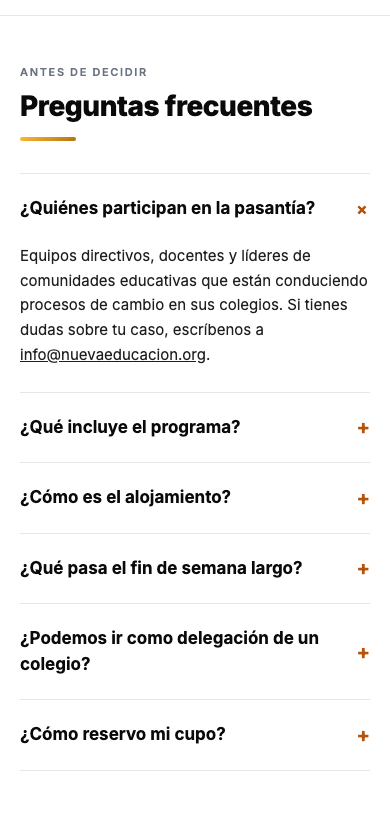
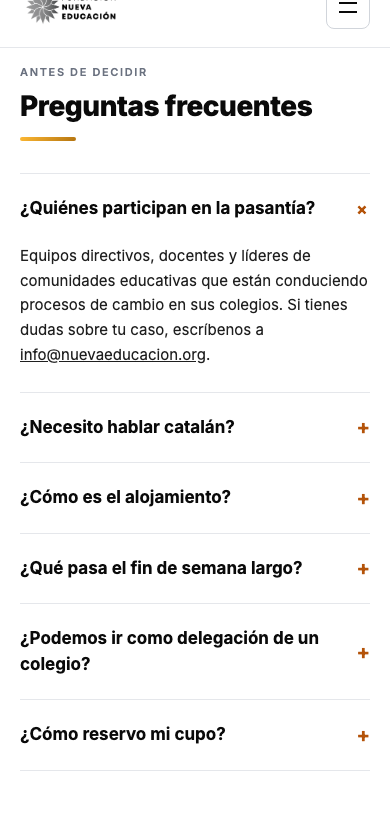
feat(a6r): FAQ — drop the duplicated question, answer the language one
r1 kept the owner-reviewed FAQ whole, which left "¿Qué incluye el programa?"
restating the #incluye section a screen above it. A FAQ that repeats the page
teaches readers the FAQ is not worth opening, so it comes off. COHORT_INCLUDES
and COHORT_EXCLUDES are not orphaned — #incluye still renders both, and the
[A1] hardcoded-cohort guard stays green (5 tests) with its coverage assertion
over both exports untouched.

In its place, "¿Necesito hablar catalán?" — a real question for a Chilean buyer
looking at Barcelona schools, and one nothing else on the page answered. The
answer is owner-confirmed copy (2026-08-05), verbatim. "Una mezcla de catalán y
español" is deliberate: the mockup's "todo el programa ocurre en español"
overstated the case and no approved source said it.

Placed second, after "¿Quiénes participan?", since both questions are about fit
and a reader deciding whether the programme is for them meets them together.
Six questions before, six after.

The e2e pins both halves of the swap so either can fail on its own: the removed
question must not come back, the new one must render, and the answer's
load-bearing sentence is asserted so a well-meaning softening is caught. The
FAQ count assertion is `>= 5`, not a pinned number, so it needed no change —
checked rather than assumed, per the prompt.

Evidence: only the six 14-faq* PNGs re-rendered, from the production build at
390/1280/1440. The rest of the page is byte-identical and its captures stand.
[…]

Changed region(s): [[0.0615, 0.4982, 0.6154, 0.5293], [0.0615, 0.0, 0.3077, 0.0311], [0.8308, 0.0, 0.9538, 0.0311]]

diff --git a/tests/e2e/pasantias-page.spec.ts b/tests/e2e/pasantias-page.spec.ts
@@ -181,6 +181,20 @@ test.describe('pasantías landing page', () => {
     // FAQ: at least five, per the plan.
     const faqCount = await page.getByTestId(/^pasantias-faq-\d+$/).count();
     expect(faqCount).toBeGreaterThanOrEqual(5);
+
+    // A6r r2 swapped one question for another, and both directions are pinned so
+    // that either half can fail on its own. "¿Qué incluye el programa?" restated
+    // the `#incluye` section a screen above it — a FAQ that repeats the page
+    // teaches readers not to open it — and the language question is one a Chilean
+    // buyer genuinely asks about Barcelona that nothing else here answers. The
+    // answer is owner-approved copy: "una mezcla de catalán y español" is the
+    // accurate expectation and must not be softened into "todo en español".
+    const faq = page.getByTestId('pasantias-faq');
+    await expect(faq).not.toContainText('¿Qué incluye el programa?');
+    await expect(faq).toContainText('¿Necesito hablar catalán?');
+    await expect(faq).toContainText(
+      'En las escuelas vas a escuchar una mezcla de catalán y español'
+    );
   });
 
   test('states no visit duration Appendix A does not state', async ({ page }) => {

diff --git a/pages/pasantias.tsx b/pages/pasantias.tsx
@@ -383,20 +383,12 @@ export default function PasantiasPage({
       ),
     },
     {
-      question: '¿Qué incluye el programa?',
+      question: '¿Necesito hablar catalán?',
       answer: (
         <>
-          <ul className="mt-2 list-disc space-y-1 pl-5">
-            {COHORT_INCLUDES.map((item) => (
-              <li key={item}>{item}</li>
-            ))}
-          </ul>
-          <p className="mt-4 font-semibold">No incluye:</p>
-          <ul className="mt-2 list-disc space-y-1 pl-5">
-            {COHORT_EXCLUDES.map((item) => (
-              <li key={item}>{item}</li>
-            ))}
-          </ul>
+          No. Las sesiones del programa se desarrollan en español: las presentaciones, las
+          entrevistas y los talleres. En las escuelas vas a escuchar una mezcla de catalán y
+          español, y el equipo de FNE acompaña las visitas.
         </>
       ),
     },

diff --git a/docs/plan/evidence/a6r/README.md b/docs/plan/evidence/a6r/README.md
@@ -61,7 +61,11 @@ header doing its job during `scrollIntoViewIfNeeded`, not a layout fault — see
   background is `brand_accent_text` (#b45309, 5.02:1), never `brand_accent`.
 - **`14-faq-open`** exists because the closed accordion shows six questions and
   no copy. The answers are A6a's owner-reviewed ones, not the mockup's — see the
-  ledger entry for why the mockup's six differ.
+  ledger entry for why the mockup's six differ. **The two `14-faq*` sets are the
+  only captures re-rendered in r2**, which swapped "¿Qué incluye el programa?" —
+  it restated the `#incluye` section a screen above it — for "¿Necesito hablar
+  catalán?", whose answer is owner-approved copy rather than the mockup's
+  wording. Still six.
 
 ## Size
 
